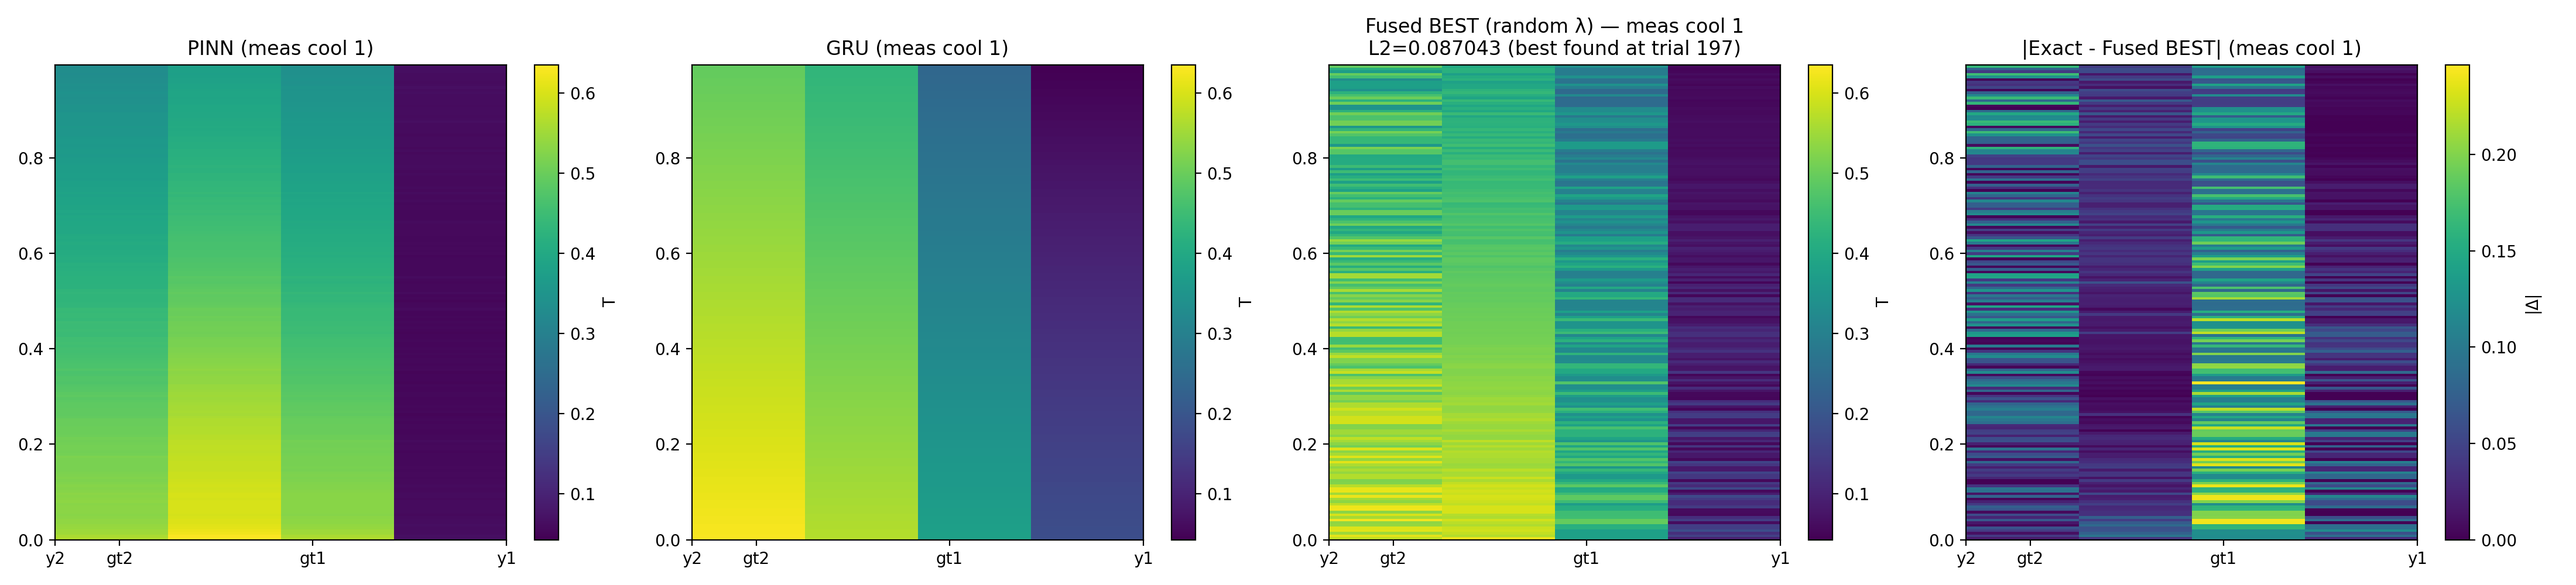
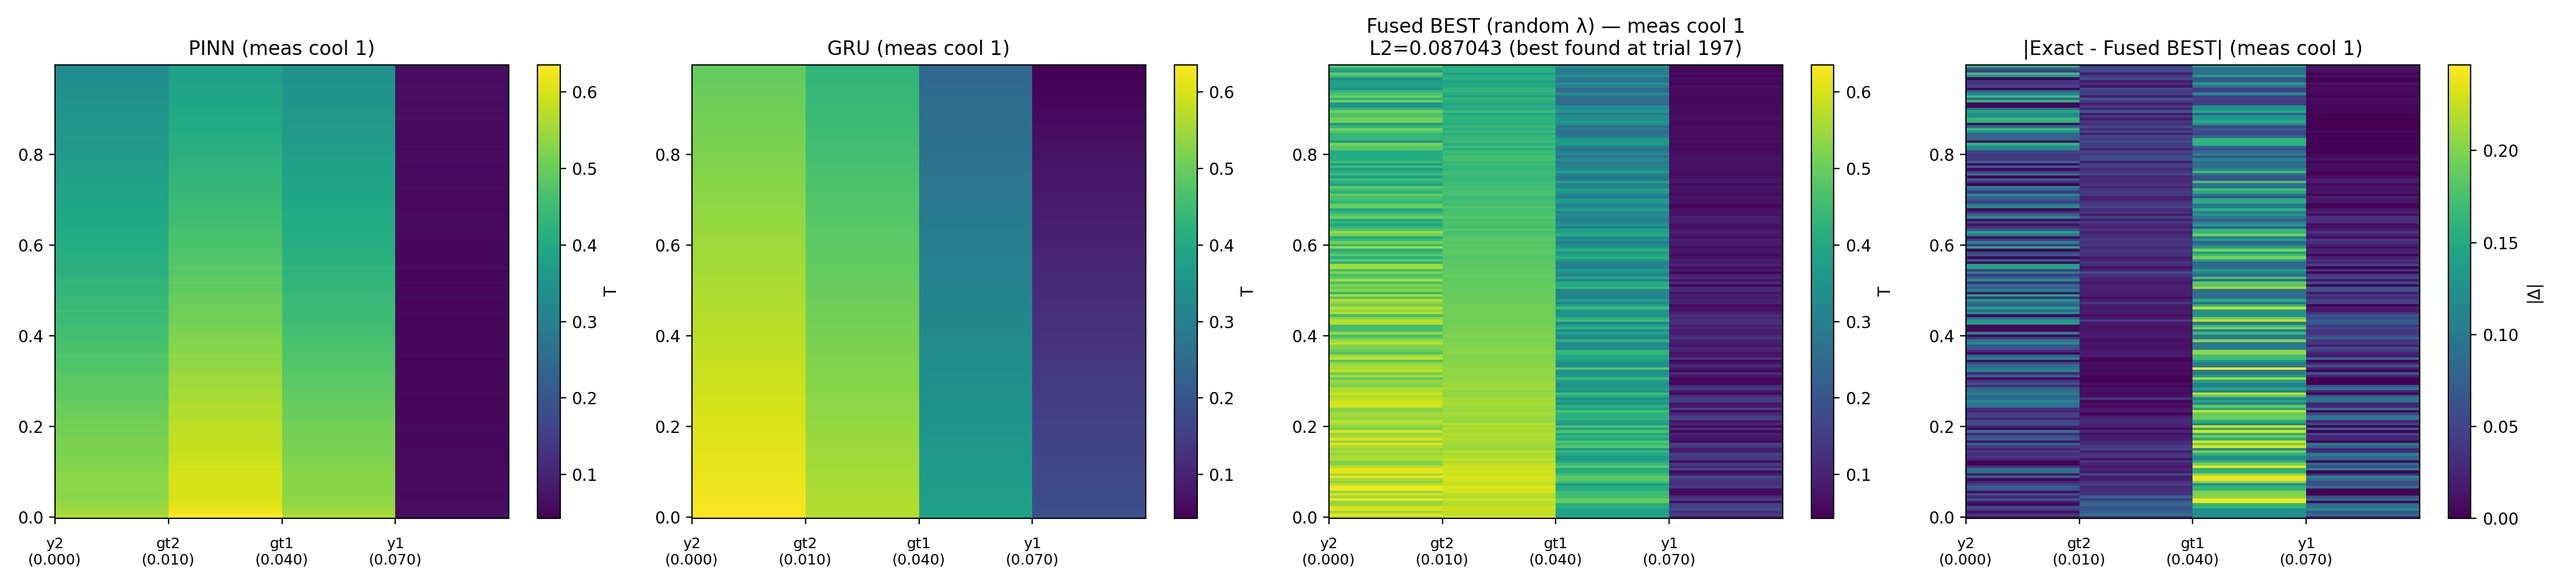
aggiustamenti sulle heatmap

diff --git a/Bio_heat_eq/Data_fusion_bio_def.py b/Bio_heat_eq/Data_fusion_bio_def.py
@@ -57,6 +57,32 @@ def _labels_for_positions(xs: np.ndarray, tol: float = 2e-3):
 
     return None
 
+# Helper per determinare i valori fisici da mostrare nelle etichette quando l'asse x è normalizzato
+def _physical_positions_for_four(xs: np.ndarray, tol: float = 2e-3) -> np.ndarray:
+    """
+    Restituisce i valori fisici da visualizzare sotto le colonne.
+    Se xs corrisponde a [0, 0.01, 0.04, 0.07] (metri), li restituisce così.
+    Se xs corrisponde alla versione normalizzata [0, 1/7, 4/7, 1], restituisce [0, 0.01, 0.04, 0.07].
+    Altrimenti ritorna xs così com'è.
+    """
+    xs = np.asarray(xs, dtype=float)
+    if xs.shape[0] != 4:
+        return xs
+    targets_m = np.array([0.00, 0.01, 0.04, 0.07], dtype=float)
+    targets_n = np.array([0.0, 1.0/7.0, 4.0/7.0, 1.0], dtype=float)
+    if np.allclose(xs, targets_m, atol=tol, rtol=0):
+        return targets_m
+    if np.allclose(xs, targets_n, atol=tol, rtol=0):
+        return targets_m
+    # Prova anche il caso in cui xs è una versione scalata (0..1) ma non esattamente i razionali
+    xmin, xmax = float(xs.min()), float(xs.max())
+    rng = xmax - xmin
+    if rng > 0:
+        xs_aff = (xs - xmin) / rng
+        if np.allclose(xs_aff, targets_n, atol=5e-3, rtol=0):
+            return targets_m
+    return xs
+
 # Risolutore robusto del path al file GRU npz (con fallback a scansione)
 def _resolve_gru_npz(base_dir: Path) -> Path:
     required_keys = {"x1", "t1", "preds1", "x2", "t2", "preds2"}
@@ -128,9 +154,30 @@ PRINT_ONLY_ON_IMPROVEMENT = True  # stampa i trial solo quando migliora il best 
 SHOW_LAMBDA_MAP_FULL = False      # stampa o meno l'intera mappa λ
 COL_MODES_SHOW = 10               # quante colonne mostrare nel riepilogo per-colonna
 
+# Configurazione plotting categoriale per x (colonne uguali) e parametri etichette
+PLOT_CATEGORICAL_X = True  # disegna colonne a larghezza uniforme (0..3) solo per la figura
+XLABEL_FONTSIZE = 9        # dimensione font per etichette a due righe
+XLABEL_PAD = 8             # distanza etichette dall'asse x
+
 # ======================
 # Utility
 # ======================
+
+def _compute_edges(vals: np.ndarray) -> np.ndarray:
+    """Dato un array monodimensionale di centri (monotono), restituisce gli spigoli per pcolormesh/imshow."""
+    v = np.asarray(vals, dtype=float)
+    if v.ndim != 1 or v.size == 0:
+        raise ValueError("vals deve essere un vettore 1D non vuoto")
+    if v.size == 1:
+        d = 1.0
+        return np.array([v[0] - d/2, v[0] + d/2], dtype=float)
+    diffs = np.diff(v)
+    edges = np.empty(v.size + 1, dtype=float)
+    edges[1:-1] = (v[1:] + v[:-1]) * 0.5
+    edges[0] = v[0] - diffs[0] * 0.5
+    edges[-1] = v[-1] + diffs[-1] * 0.5
+    return edges
+
 def load_triplets_txt(path: str):
     arr = np.loadtxt(path)
     if arr.ndim != 2 or arr.shape[1] != 3:
@@ -448,45 +495,60 @@ if __name__ == "__main__":
                        fmt="%.6f", header="x t U_fused (best random λ per-pixel)")
 
         # Figura unica del caso migliore (PINN, GRU, Fused-best, |ref-Fused|)
+        # Edges e ticks: possibilità di disegno categoriale (colonne uguali) per allineare visivamente label + numeri
+        x_edges = _compute_edges(xs_tar)
+        t_edges = _compute_edges(ts_tar)
+        if PLOT_CATEGORICAL_X:
+            x_plot_edges = np.arange(len(xs_tar) + 1, dtype=float)   # 0..4
+            x_ticks_plot = np.arange(len(xs_tar), dtype=float)        # 0..3
+        else:
+            x_plot_edges = x_edges
+            x_ticks_plot = xs_tar
         max_abs = np.max(np.abs(T_ref_tar - U_best))
         fig, axes = plt.subplots(1, 4, figsize=(22, 5))
-        im0 = axes[0].imshow(T_pinn_tar, origin='lower', extent=[xs_tar.min(), xs_tar.max(), ts_tar.min(), ts_tar.max()],
-                             aspect='auto', cmap='viridis', vmin=vmin_T, vmax=vmax_T)
+        im0 = axes[0].pcolormesh(x_plot_edges, t_edges, T_pinn_tar, shading='flat', cmap='viridis', vmin=vmin_T, vmax=vmax_T)
         axes[0].set_title(f'PINN ({dataset_label})'); plt.colorbar(im0, ax=axes[0], label='T')
         if x_labels is not None:
-            axes[0].set_xticks(xs_tar)
-            axes[0].set_xticklabels(x_labels)
-        im1 = axes[1].imshow(T_gru_tar, origin='lower', extent=[xs_tar.min(), xs_tar.max(), ts_tar.min(), ts_tar.max()],
-                             aspect='auto', cmap='viridis', vmin=vmin_T, vmax=vmax_T)
+            xvals_disp = _physical_positions_for_four(xs_tar)
+            tick_labels = [f"{lbl}\n({xv:.3f})" for lbl, xv in zip(x_labels, xvals_disp)]
+            axes[0].set_xticks(x_ticks_plot)
+            axes[0].set_xticklabels(tick_labels, fontsize=XLABEL_FONTSIZE)
+        im1 = axes[1].pcolormesh(x_plot_edges, t_edges, T_gru_tar, shading='flat', cmap='viridis', vmin=vmin_T, vmax=vmax_T)
         axes[1].set_title(f'GRU ({dataset_label})'); plt.colorbar(im1, ax=axes[1], label='T')
         if x_labels is not None:
-            axes[1].set_xticks(xs_tar)
-            axes[1].set_xticklabels(x_labels)
-        im2 = axes[2].imshow(U_best, origin='lower', extent=[xs_tar.min(), xs_tar.max(), ts_tar.min(), ts_tar.max()],
-                             aspect='auto', cmap='viridis', vmin=vmin_T, vmax=vmax_T)
+            axes[1].set_xticks(x_ticks_plot)
+            axes[1].set_xticklabels(tick_labels, fontsize=XLABEL_FONTSIZE)
+        im2 = axes[2].pcolormesh(x_plot_edges, t_edges, U_best, shading='flat', cmap='viridis', vmin=vmin_T, vmax=vmax_T)
         axes[2].set_title(f'Fused BEST (random λ) — {dataset_label}\nL2={best["l2"]:.6f} (best found at trial {best["trial"]})'); plt.colorbar(im2, ax=axes[2], label='T')
         if x_labels is not None:
-            axes[2].set_xticks(xs_tar)
-            axes[2].set_xticklabels(x_labels)
-        im3 = axes[3].imshow(np.abs(T_ref_tar - U_best), origin='lower', extent=[xs_tar.min(), xs_tar.max(), ts_tar.min(), ts_tar.max()],
-                             aspect='auto', cmap='viridis', vmin=0, vmax=max_abs)
+            axes[2].set_xticks(x_ticks_plot)
+            axes[2].set_xticklabels(tick_labels, fontsize=XLABEL_FONTSIZE)
+        im3 = axes[3].pcolormesh(x_plot_edges, t_edges, np.abs(T_ref_tar - U_best), shading='flat', cmap='viridis', vmin=0, vmax=max_abs)
         axes[3].set_title(f'|{ref_name} - Fused BEST| ({dataset_label})'); plt.colorbar(im3, ax=axes[3], label='|Δ|')
         if x_labels is not None:
-            axes[3].set_xticks(xs_tar)
-            axes[3].set_xticklabels(x_labels)
+            axes[3].set_xticks(x_ticks_plot)
+            axes[3].set_xticklabels(tick_labels, fontsize=XLABEL_FONTSIZE)
+        # centratura e padding per evitare sovrapposizione delle due righe
+        for ax in axes:
+            ax.set_xlim(x_plot_edges[0], x_plot_edges[-1])
+            ax.tick_params(axis='x', pad=XLABEL_PAD)
+        plt.subplots_adjust(bottom=0.22)
         plt.tight_layout()
         fig.savefig(out_dir / f"{key}_fused_best_random.png", dpi=200)
 
         # (Opzionale) salva la mappa di λ come immagine discreta, ma NON mostrarla
         try:
             fig_l, ax_l = plt.subplots(1, 1, figsize=(6, 4))
-            m = ax_l.imshow(lam_map_best, origin='lower', extent=[xs_tar.min(), xs_tar.max(), ts_tar.min(), ts_tar.max()],
-                            aspect='auto', cmap='viridis')
+            m = ax_l.pcolormesh(x_plot_edges, t_edges, lam_map_best, shading='flat', cmap='viridis')
             ax_l.set_title(f'λ-map (best) — {dataset_label}')
             plt.colorbar(m, ax=ax_l, label='λ')
             if x_labels is not None:
-                ax_l.set_xticks(xs_tar)
-                ax_l.set_xticklabels(x_labels)
+                xvals_disp = _physical_positions_for_four(xs_tar)
+                tick_labels = [f"{lbl}\n({xv:.3f})" for lbl, xv in zip(x_labels, xvals_disp)]
+                ax_l.set_xticks(x_ticks_plot)
+                ax_l.set_xticklabels(tick_labels, fontsize=XLABEL_FONTSIZE)
+                ax_l.set_xlim(x_plot_edges[0], x_plot_edges[-1])
+                ax_l.tick_params(axis='x', pad=XLABEL_PAD)
             fig_l.savefig(out_dir / f"{key}_lambda_map_best.png", dpi=200)
             plt.close(fig_l)
         except Exception as e:
